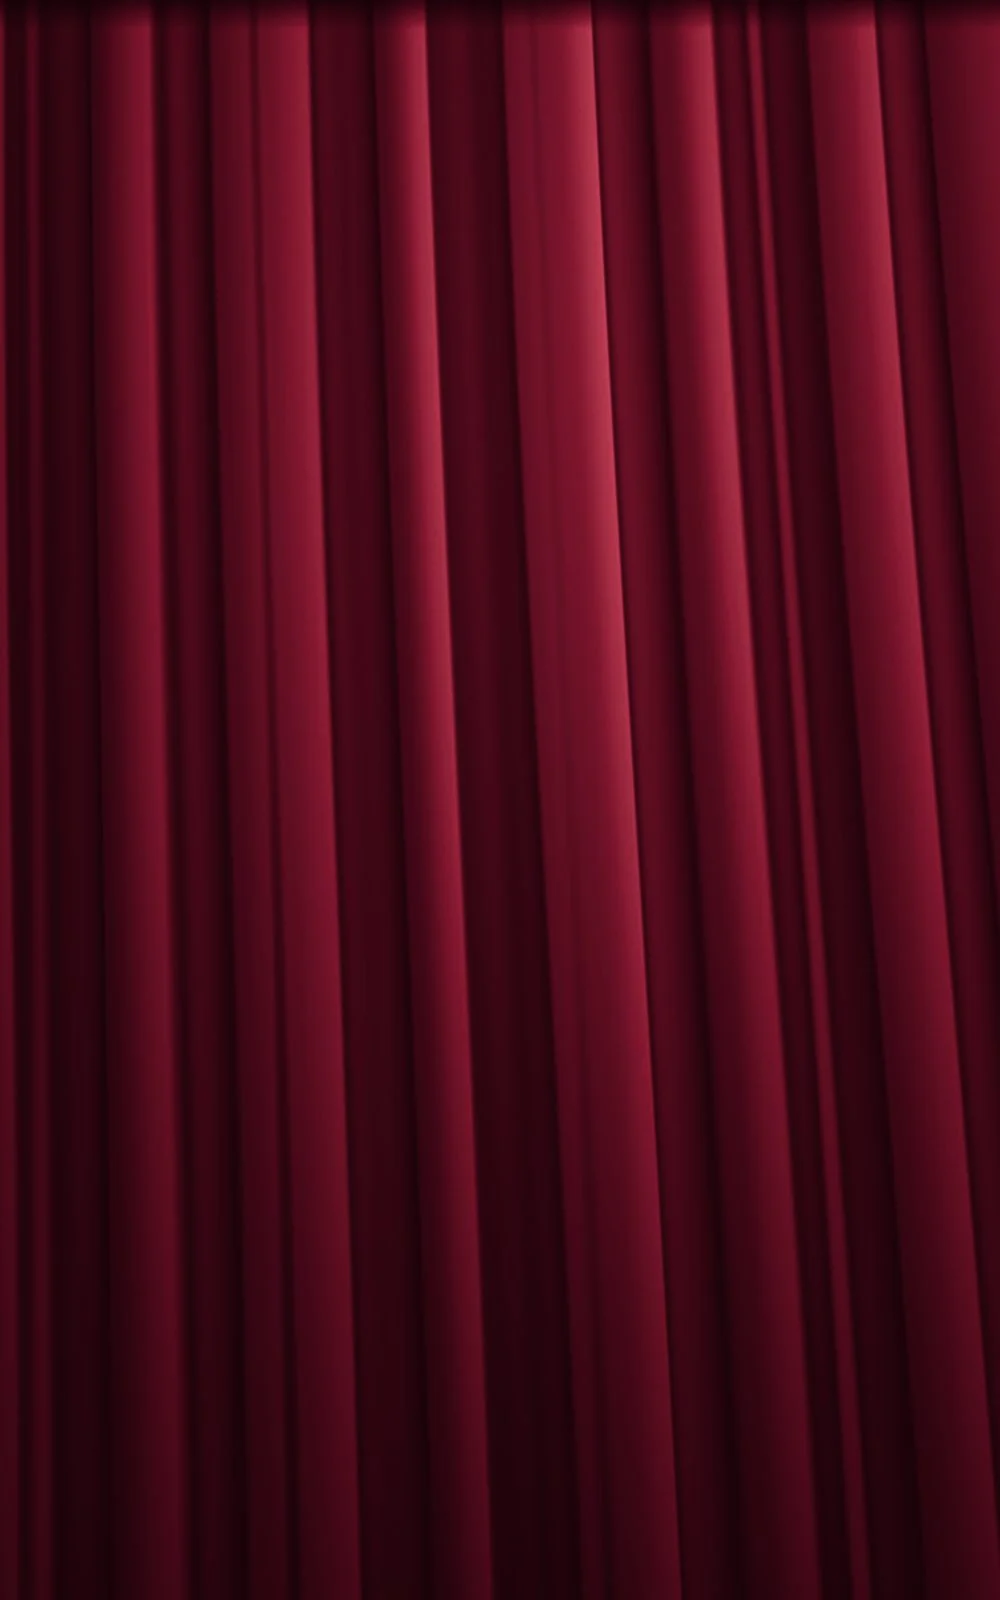
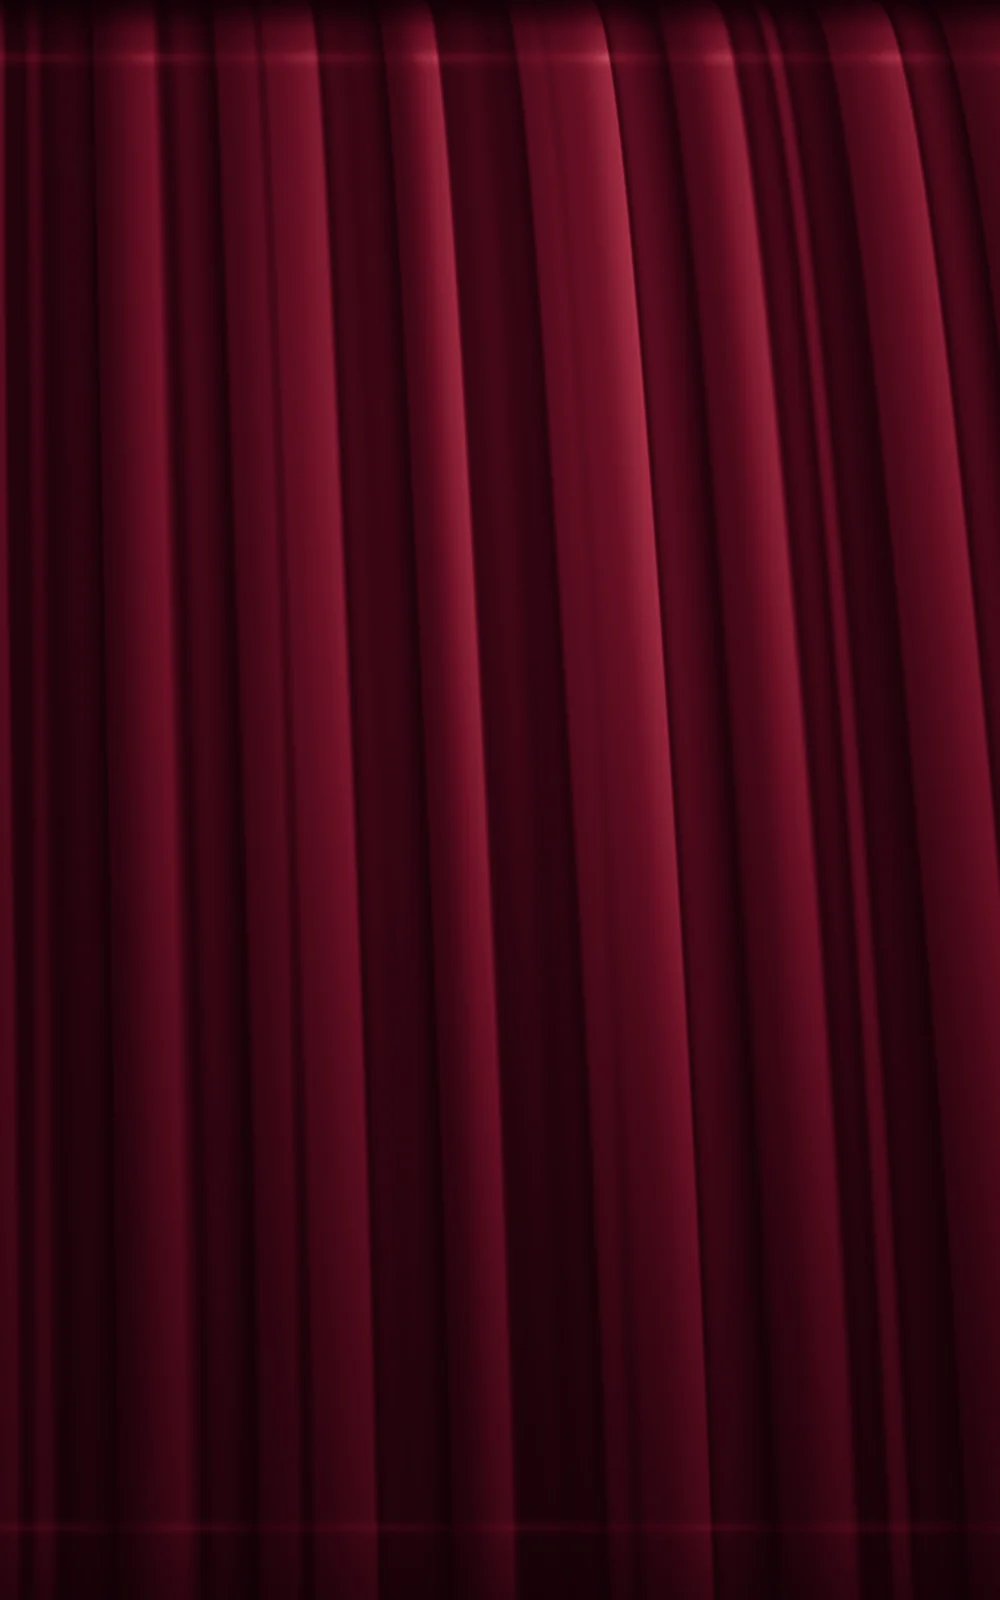
Brouillon : rideaux sobres qui s'ouvrent en deux, tringle en laiton
Claude-Session: https://claude.ai/code/session_01GaJpgBcKxV9QebmUuq1GTh

diff --git a/index.html b/index.html
@@ -35,21 +35,29 @@
   :focus-visible{outline:2px solid var(--bordeaux);outline-offset:3px}
 
   /* ---------- Le rideau qui se lève à l'arrivée ---------- */
-  /* Rideaux de velours réalistes (texture ombrée), lambrequin à festons et frange dorée */
-  .lever{position:fixed;inset:0;z-index:50;pointer-events:none;overflow:hidden;background:#1a0307;animation:eteindre .8s ease 2.4s forwards}
-  .pan{position:absolute;top:0;bottom:0;width:51%;overflow:hidden;
-    animation-duration:2.2s;animation-timing-function:cubic-bezier(.65,0,.25,1);animation-delay:.8s;animation-fill-mode:forwards}
+  /* Rideaux de velours bordeaux, sobres : deux pans qui s'ouvrent en deux, une fine tringle en laiton patiné */
+  .lever{position:fixed;inset:0;z-index:50;pointer-events:none;overflow:hidden;background:#140205;animation:eteindre 1.6s ease 1.2s forwards, disparaitre .9s ease 3.6s forwards}
+  .pan{position:absolute;top:0;bottom:0;width:51%;overflow:hidden;will-change:transform;
+    animation-duration:2.6s;animation-timing-function:cubic-bezier(.6,0,.2,1);animation-delay:.9s;animation-fill-mode:forwards}
   .pan::before{content:"";position:absolute;inset:0;background:url(images/rideau-velours.webp) center top/auto 100% repeat-x}
+  .pan::after{content:"";position:absolute;inset:0;background:radial-gradient(ellipse 80% 60% at 50% 35%, rgba(255,215,190,.08), transparent 70%)}
   .pan.d::before{transform:scaleX(-1)}
-  .pan.g{left:0;transform-origin:left center;animation-name:ouvrir-g;box-shadow:18px 0 40px rgba(0,0,0,.6)}
-  .pan.d{right:0;transform-origin:right center;animation-name:ouvrir-d;box-shadow:-18px 0 40px rgba(0,0,0,.6)}
-  .lambrequin{position:absolute;left:0;right:0;top:0;height:clamp(100px,15vh,160px);z-index:2;
-    background:url(images/lambrequin-velours.webp) center top/auto 100% repeat-x;filter:drop-shadow(0 10px 14px rgba(0,0,0,.5));
-    animation:monter 1.4s cubic-bezier(.65,0,.25,1) 2s forwards}
-  @keyframes ouvrir-g{to{transform:translateX(-92%) scaleX(.5)}}
-  @keyframes ouvrir-d{to{transform:translateX(92%) scaleX(.5)}}
-  @keyframes monter{to{transform:translateY(-130%)}}
+  .pan.g{left:0;transform-origin:left top;animation-name:ouvrir-g;box-shadow:16px 0 36px rgba(0,0,0,.55)}
+  .pan.d{right:0;transform-origin:right top;animation-name:ouvrir-d;box-shadow:-16px 0 36px rgba(0,0,0,.55)}
+  .tringle{position:absolute;left:0;right:0;top:0;height:9px;z-index:2;
+    background:linear-gradient(180deg,#3a2a17 0%,#9c7a4c 35%,#d9bd8c 50%,#8a6a3e 70%,#2e2010 100%);
+    box-shadow:0 3px 10px rgba(0,0,0,.6);}
+  @keyframes ouvrir-g{
+    0%{transform:none}
+    30%{transform:scaleX(.82) skewY(.5deg)}
+    100%{transform:scaleX(.13) skewY(0)}}
+  @keyframes ouvrir-d{
+    0%{transform:none}
+    30%{transform:scaleX(.82) skewY(-.5deg)}
+    100%{transform:scaleX(.13) skewY(0)}}
+  @keyframes disparaitre{to{opacity:0}}
   @keyframes eteindre{to{background:transparent}}
+  @keyframes eteindre-tringle{to{opacity:0;transform:translateY(-10px)}}
 
   /* ---------- En-tête ---------- */
   header{position:sticky;top:0;z-index:20;background:rgba(251,244,241,.86);-webkit-backdrop-filter:blur(10px);backdrop-filter:blur(10px);border-bottom:1px solid rgba(176,137,96,.25)}
@@ -228,7 +236,7 @@
 
 <div class="lever" aria-hidden="true">
   <div class="pan g"></div><div class="pan d"></div>
-  <div class="lambrequin"></div>
+  <div class="tringle"></div>
 </div>
 
 <header>
@@ -521,7 +529,7 @@
 
     // Retirer le rideau d'ouverture une fois levé
     var lever=document.querySelector('.lever');
-    setTimeout(function(){ if(lever) lever.remove(); }, 3400);
+    setTimeout(function(){ if(lever) lever.remove(); }, 4600);
 
     // Loupe sur les visuels de tarifs
     var loupe=document.getElementById('loupe'), img=loupe.querySelector('img');
